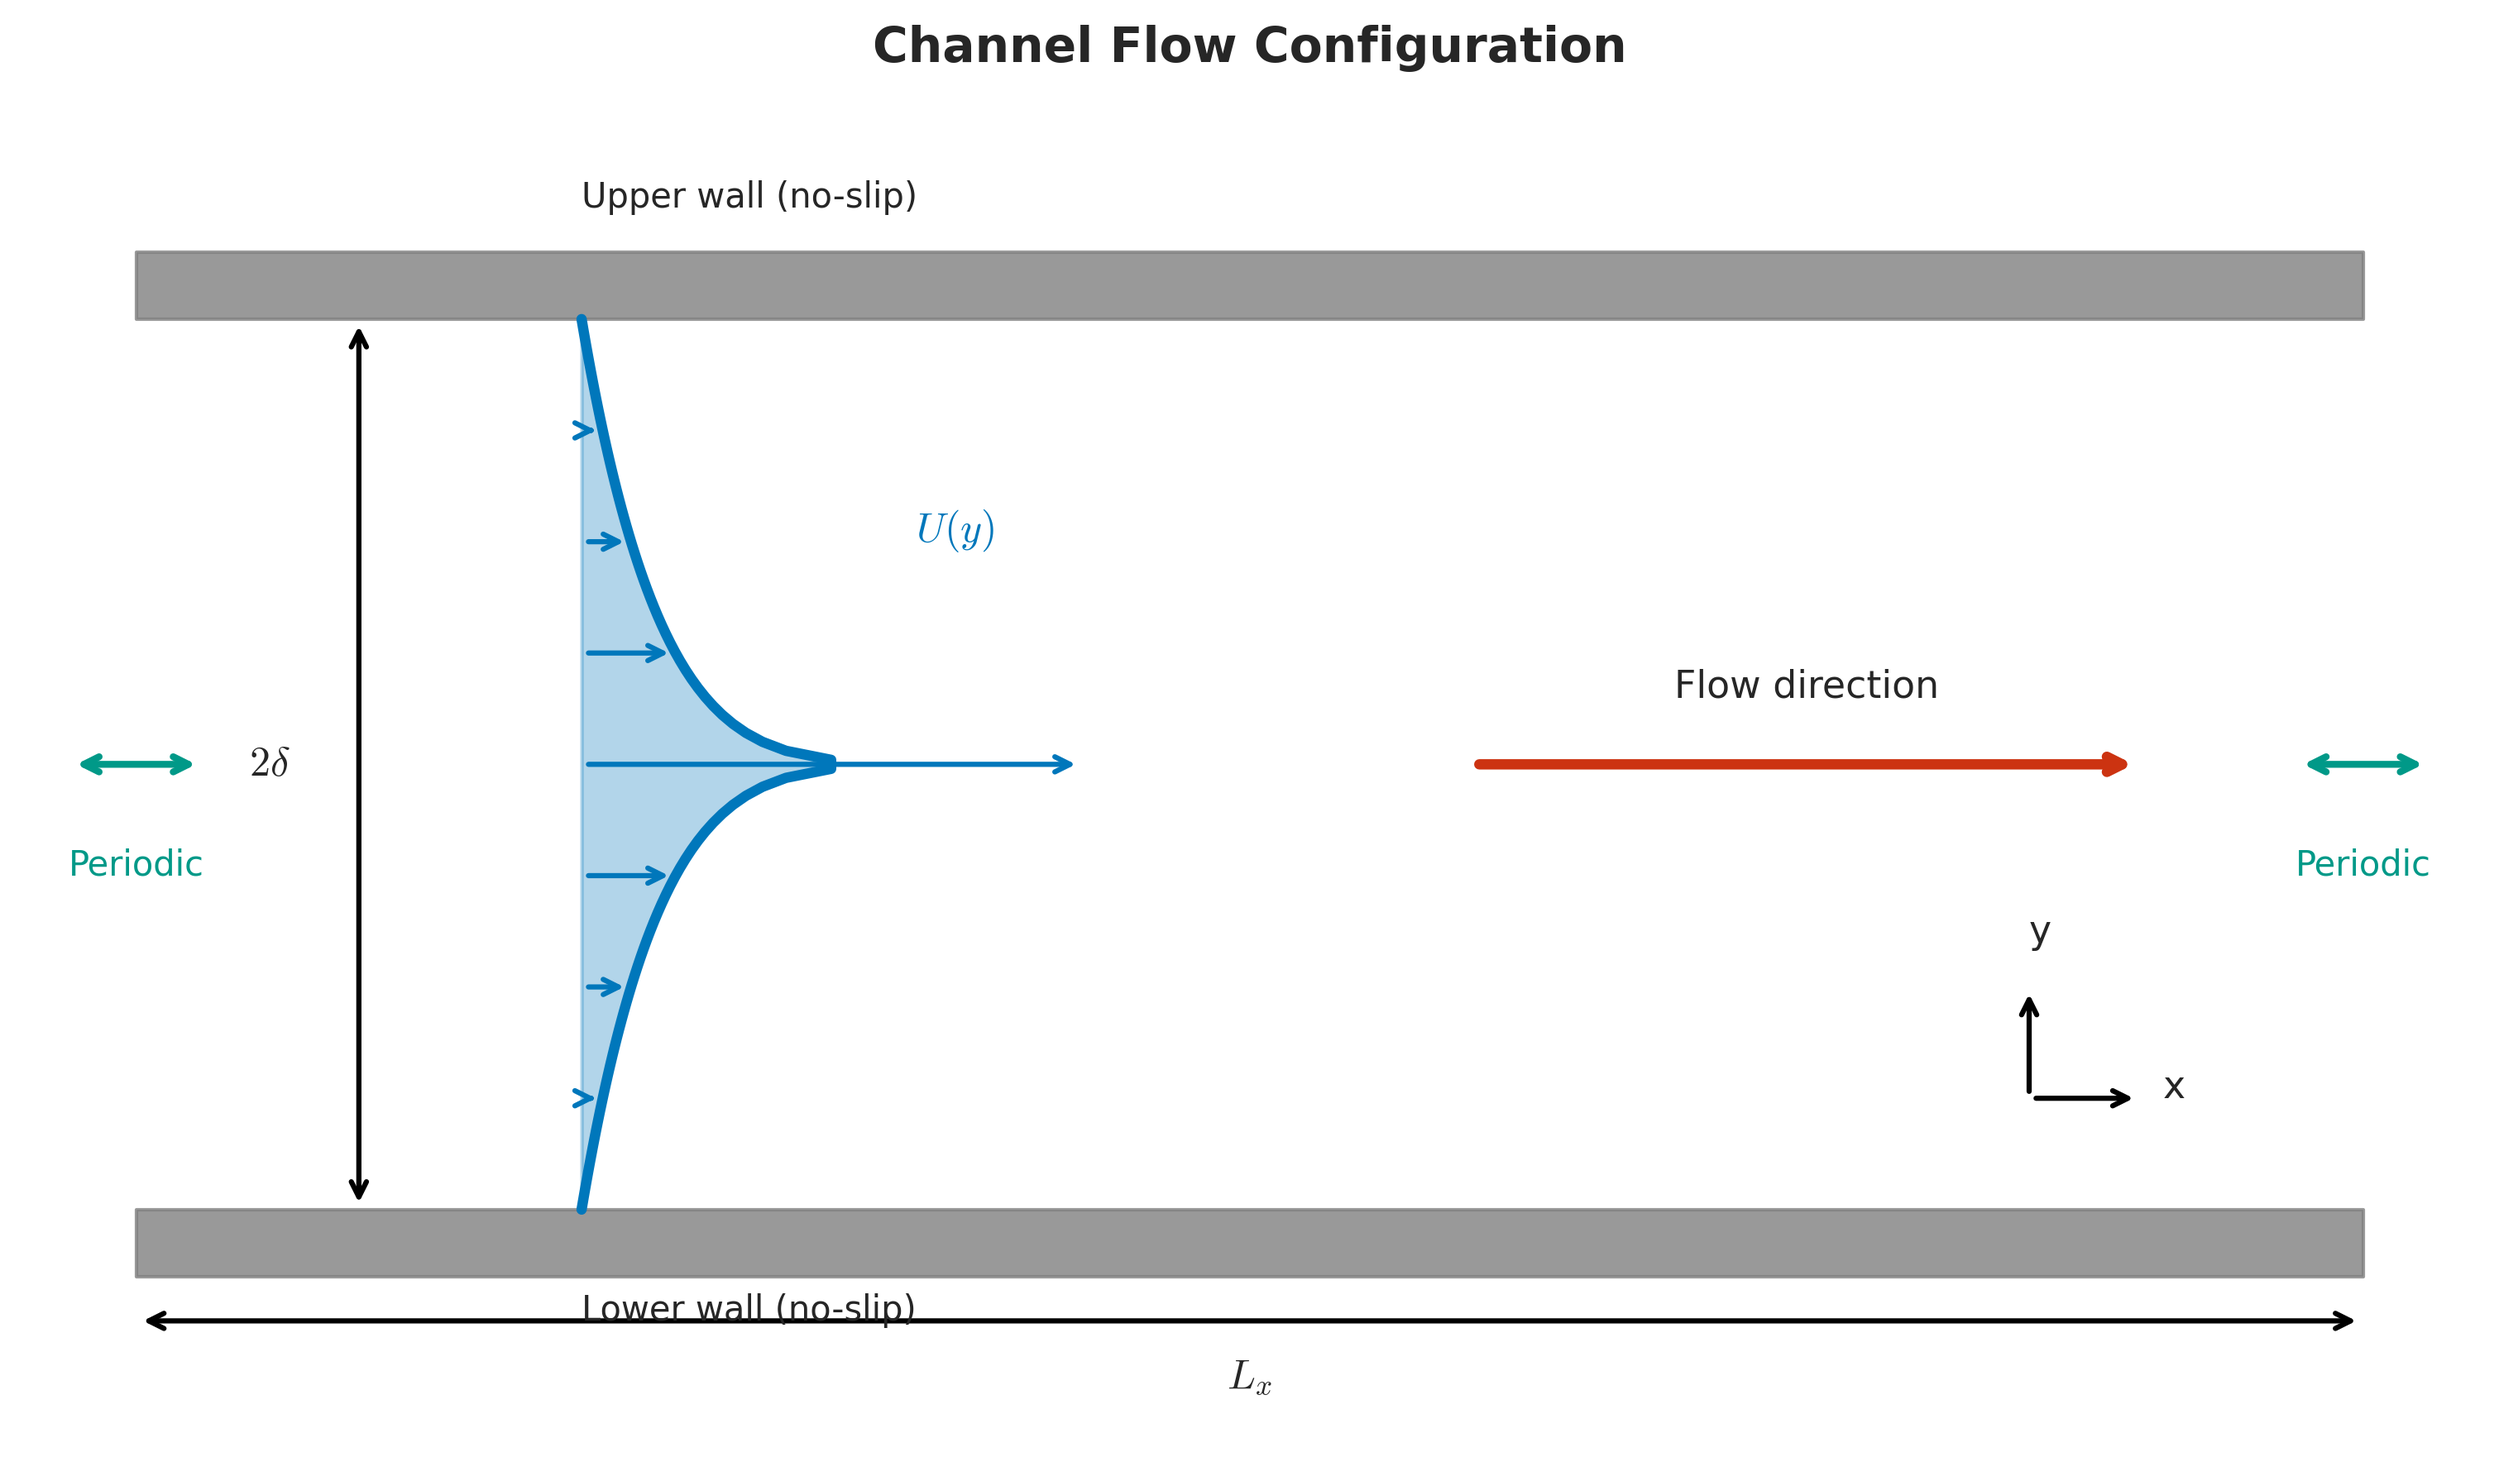
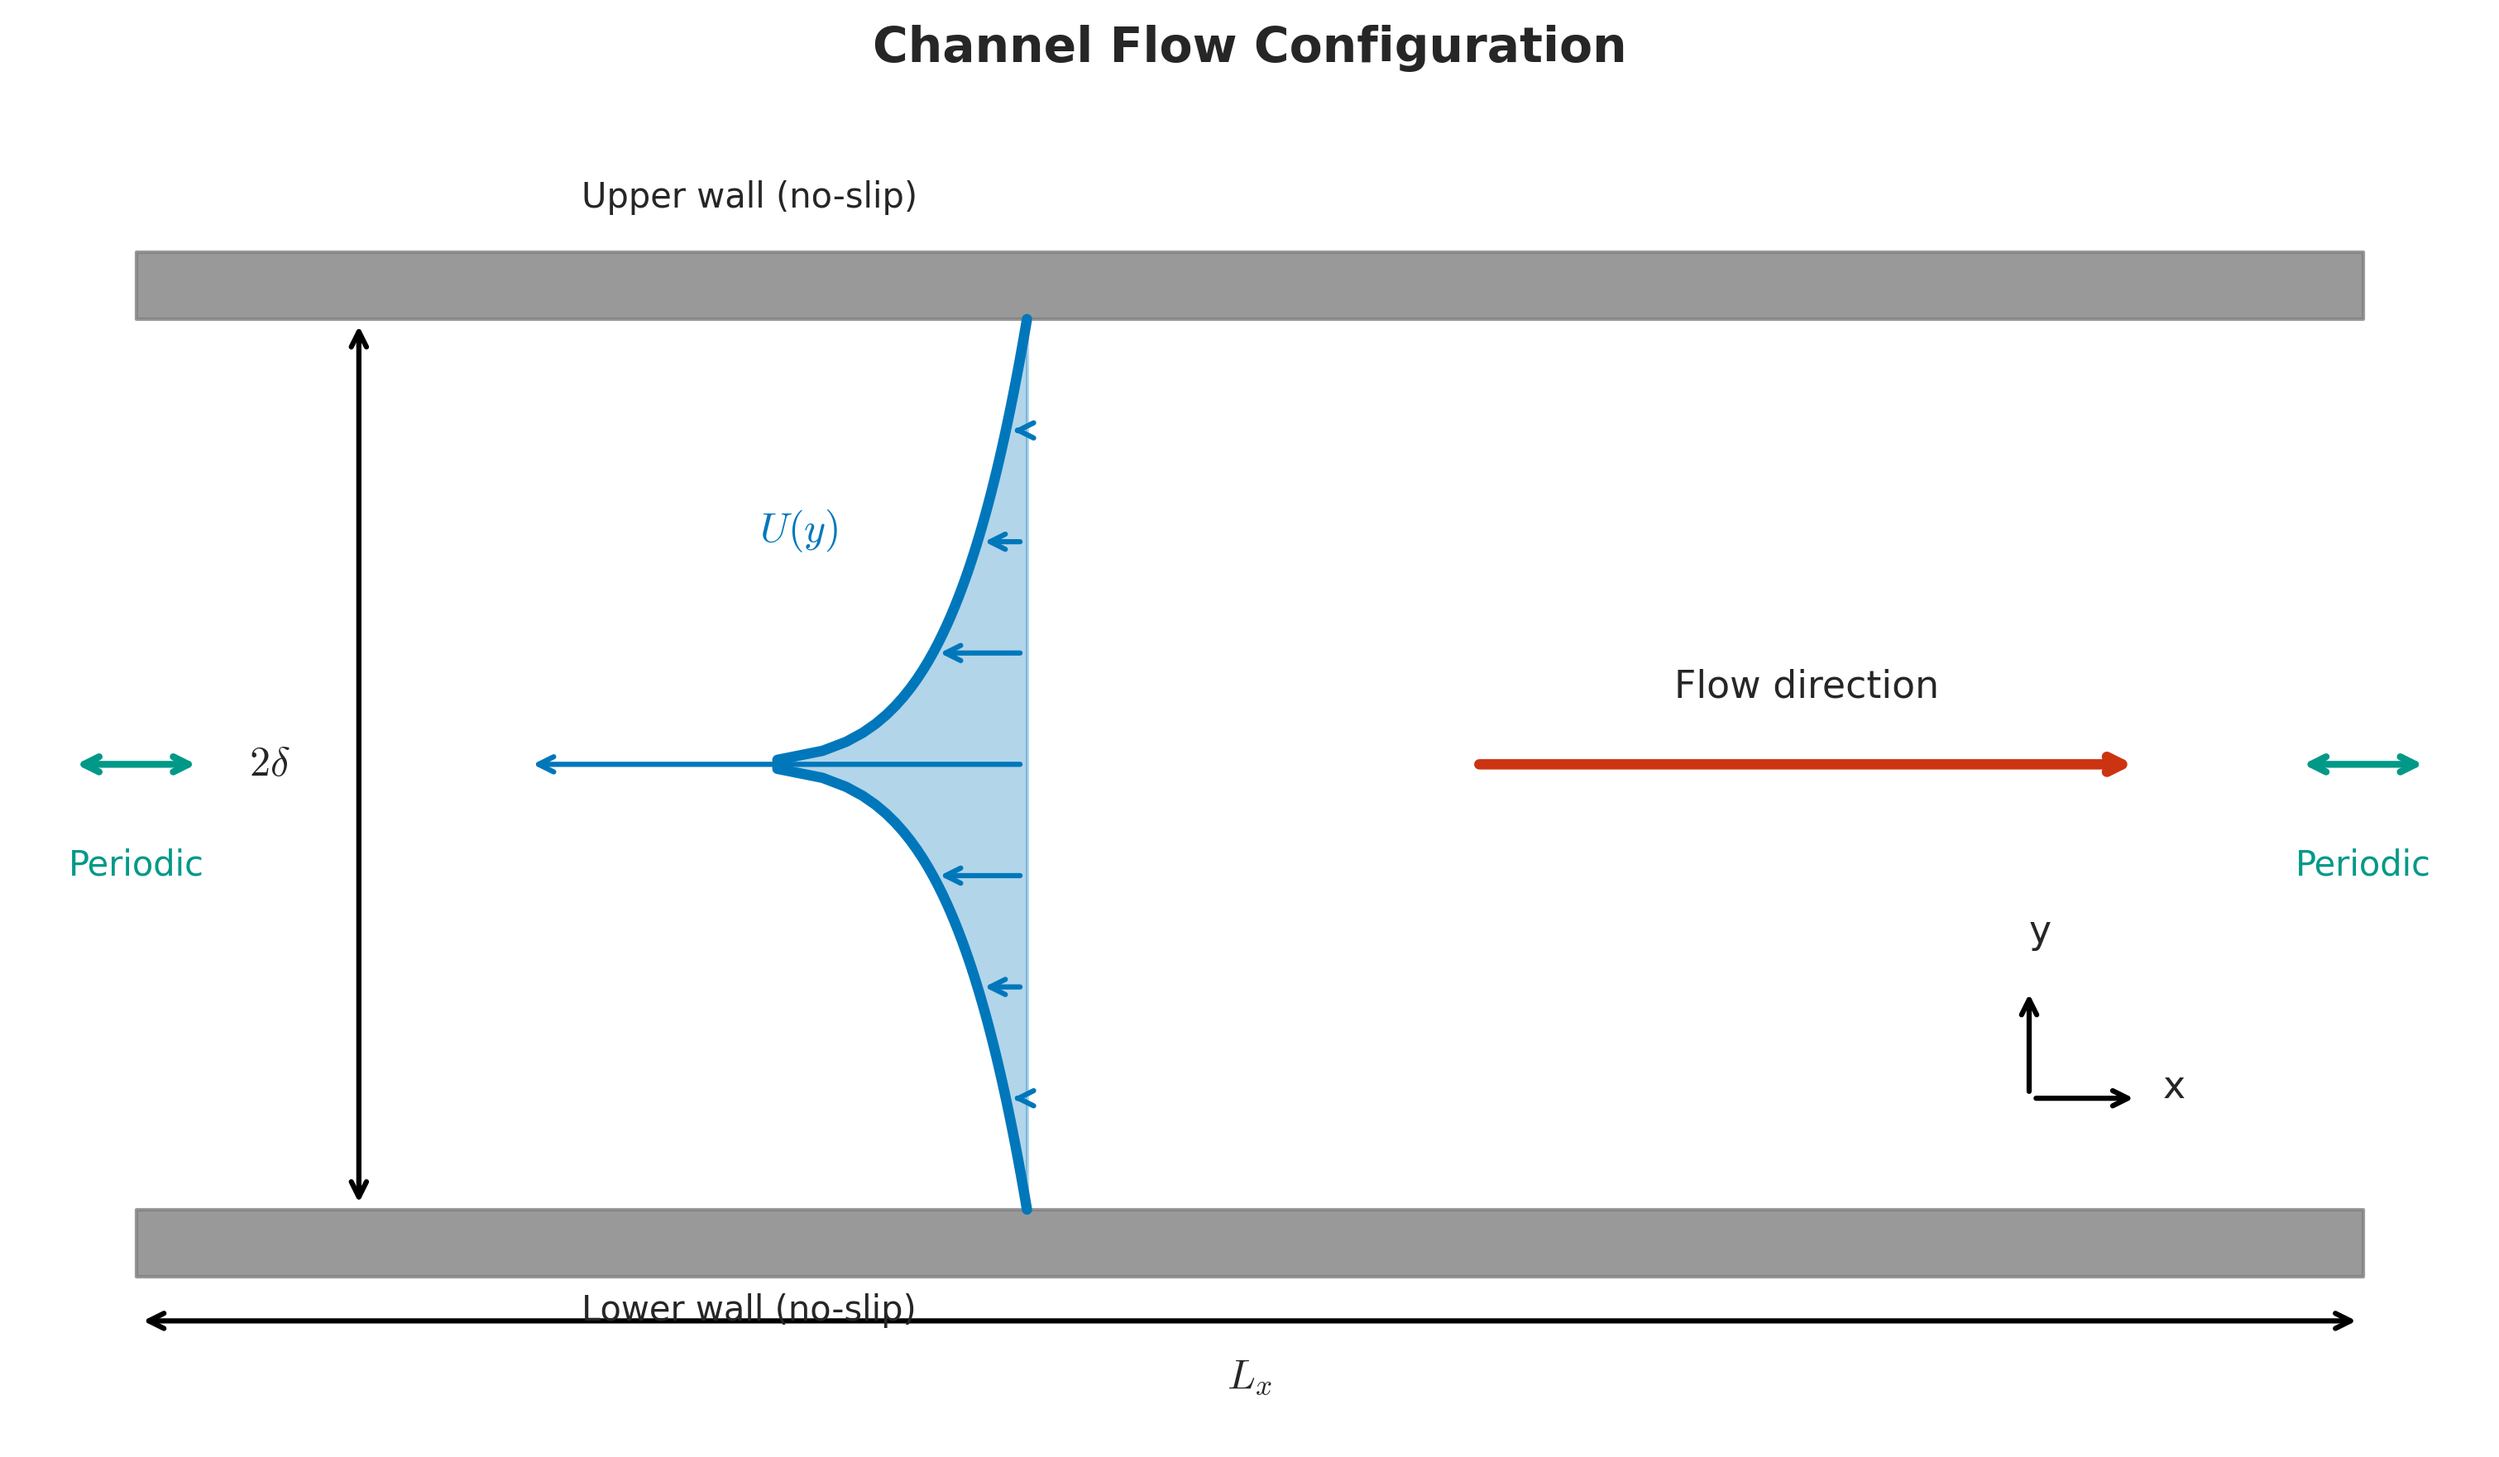
Fix channel flow schematic velocity profile direction
Changed velocity profile curve to bulge left instead of right,
correctly showing the characteristic parabolic shape of channel flow.

🤖 Generated with [Claude Code](https://claude.com/claude-code)

Changed region(s): [[0.2178, 0.2185, 0.4356, 0.8116], [0.3112, 0.3434, 0.3423, 0.3746]]

diff --git a/scripts/schematics.py b/scripts/schematics.py
@@ -173,14 +173,14 @@ def create_channel_flow_schematic():
     # Turbulent-like profile
     u = 1.5 * (1 - (np.abs(y)/wall_y)**0.15)
 
-    # Draw velocity profile
-    ax.plot(2 + u*1.5, y, color=COLORS['blue'], linewidth=3)
-    ax.fill_betweenx(y, 2, 2 + u*1.5, alpha=0.3, color=COLORS['blue'])
+    # Draw velocity profile (curve extends LEFT from baseline to show U(y) magnitude)
+    ax.plot(4 - u*1.5, y, color=COLORS['blue'], linewidth=3)
+    ax.fill_betweenx(y, 4, 4 - u*1.5, alpha=0.3, color=COLORS['blue'])
 
-    # Velocity arrows
+    # Velocity arrows (pointing LEFT to show velocity magnitude at each y)
     for yi in np.linspace(-1.5, 1.5, 7):
         ui = 1.5 * (1 - (np.abs(yi)/wall_y)**0.15)
-        ax.annotate('', xy=(2 + ui*1.5, yi), xytext=(2, yi),
+        ax.annotate('', xy=(4 - ui*1.5, yi), xytext=(4, yi),
                    arrowprops=dict(arrowstyle='->', color=COLORS['blue'], lw=1.5))
 
     # Flow direction arrow
@@ -209,7 +209,7 @@ def create_channel_flow_schematic():
     # Labels
     ax.text(2, wall_y + 0.5, 'Upper wall (no-slip)', fontsize=10, ha='left')
     ax.text(2, -wall_y - 0.5, 'Lower wall (no-slip)', fontsize=10, ha='left')
-    ax.text(3.5, 1.0, r'$U(y)$', fontsize=12, color=COLORS['blue'])
+    ax.text(2.8, 1.0, r'$U(y)$', fontsize=12, color=COLORS['blue'])
 
     # Coordinate system
     ax.annotate('', xy=(9, -1.5), xytext=(8.5, -1.5),
